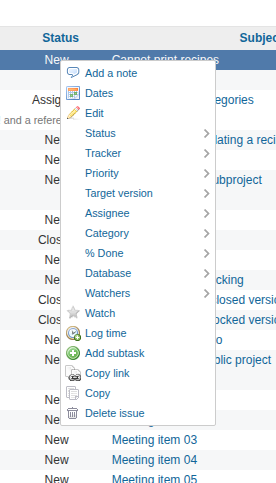
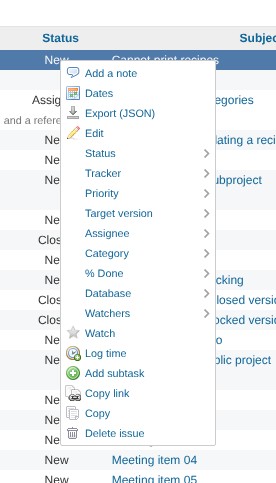
Screenshots with Export (JSON), and the OpenAI review of the export
The context menu and settings screenshots of 5.1, 6.1 and 7.0 show the
export entry and its settings; the other screenshots are unchanged. The
review record has a resolution under each finding.

diff --git a/docs/reviews/openai-2026-11-05-e59323f.md b/docs/reviews/openai-2026-11-05-e59323f.md
@@ -1,0 +1,32 @@
+# OpenAI review e59323f
+
+Model `gpt-5`, range `7775a71..e59323f`, 78 file(s), 2 request(s), 55948 tokens.
+
+Add a `Resolution:` line under every finding: fixed in <commit>, or why not.
+
+## Part 1 of 2
+
+No findings.
+
+## Part 2 of 2
+
+Major, spec/settings_spec.rb:17
+The test loops over RedmineContextMenuActions::DEFAULT_SETTINGS to assert that every setting renders. This couples the test to the code under test; if a developer mistakenly removes a setting from both the form and DEFAULT_SETTINGS, the test will still pass, masking a real regression.
+Scenario: A refactor drops the enable_last_notes_link control and also removes it from DEFAULT_SETTINGS. The form no longer shows the control, but the test enumerates only the keys still in DEFAULT_SETTINGS and passes.
+Fix: Assert against an explicit, hard-coded list of expected setting keys in the spec (including the newly added export settings), not the implementation constant. This way the test fails if the UI loses a control.
+
+Resolution: fixed in bfc6edb; the spec lists the six keys itself (plugin_spec.rb already pinned DEFAULT_SETTINGS).
+
+Minor, spec/settings_spec.rb:56
+The example sets Setting.plugin_redmine_context_menu_actions = {} and immediately renders the settings page without clearing the Redmine Setting cache. Depending on prior examples, cached plugin settings can leak, making the test order-dependent and potentially producing false positives/negatives.
+Scenario: A previous example enabled enable_export_json. Without Setting.clear_cache after assignment, settings_page may still reflect the old cached values, so the test can pass locally but fail under a different execution order or CI seed.
+Fix: Call Setting.clear_cache immediately after modifying Setting.plugin_redmine_context_menu_actions, or use a helper (e.g., cma_settings) that writes and clears the cache in one place.
+
+Resolution: not a defect. Redmine's Setting.[]= stores the new value in its cache as it saves, and spec_helper clears the cache before every example; the order cannot leak a value.
+
+Minor, spec/settings_spec.rb:64
+The test asserts default checkboxes for export parts by iterating RedmineContextMenuActions::EXPORT_PARTS. This reuses an implementation constant likely also used to render the form, so if the constant is (incorrectly) changed, the test will still pass even though the intended parts have silently changed or been removed.
+Scenario: EXPORT_PARTS is accidentally emptied; the form renders no part checkboxes, and the test iterates an empty list and passes.
+Fix: Assert against an explicit list of expected export parts (journals, attachments, relations, children, watchers, changesets) in the spec, independent of the code constant.
+
+Resolution: fixed in bfc6edb; the six parts are listed in the spec.
